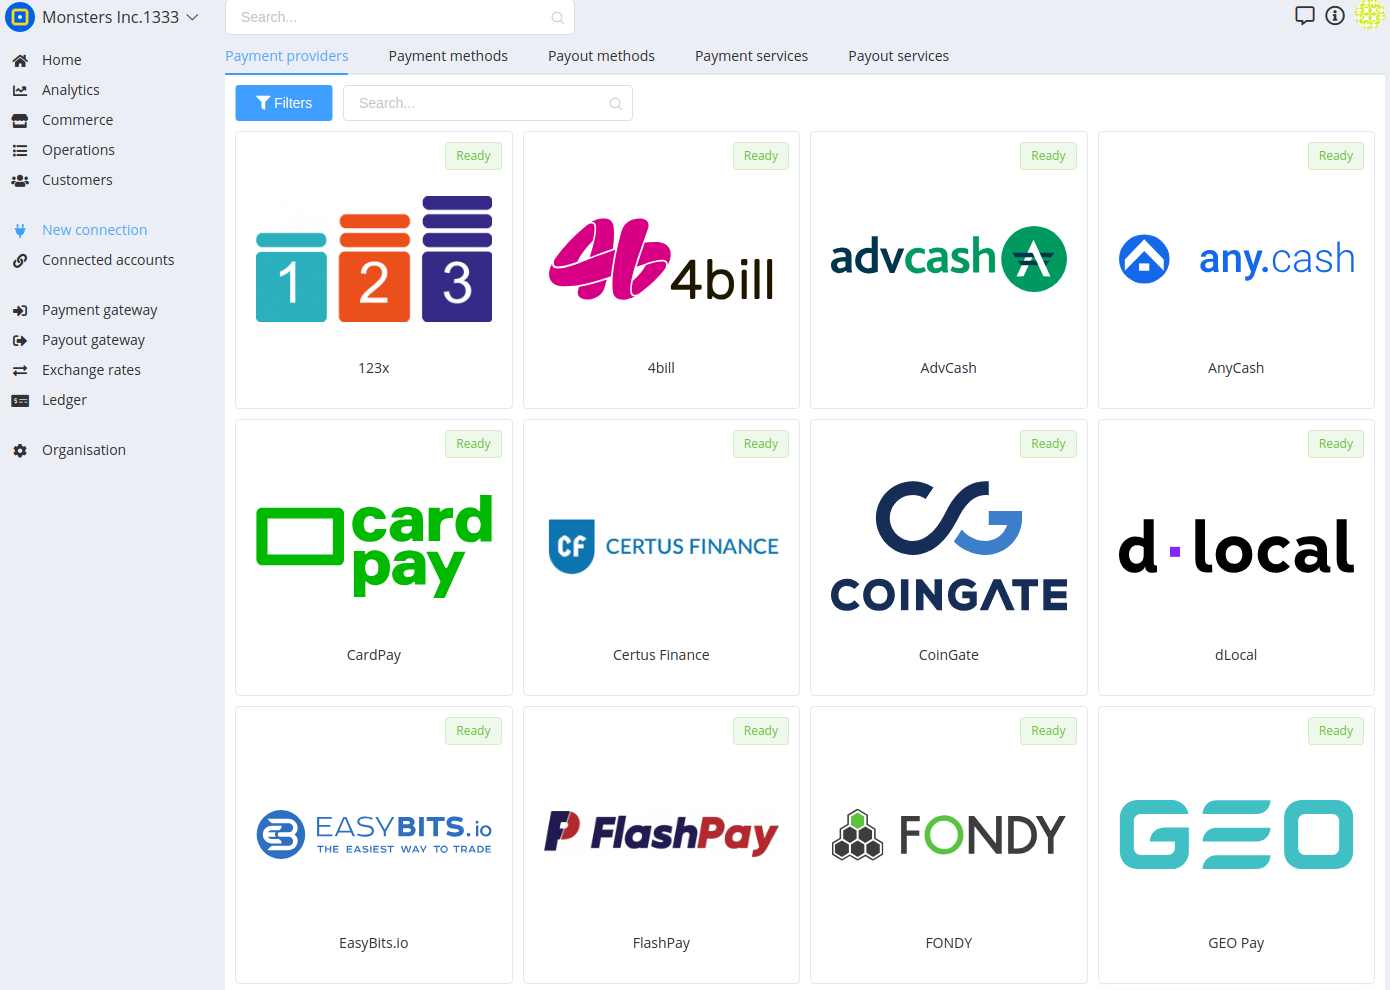
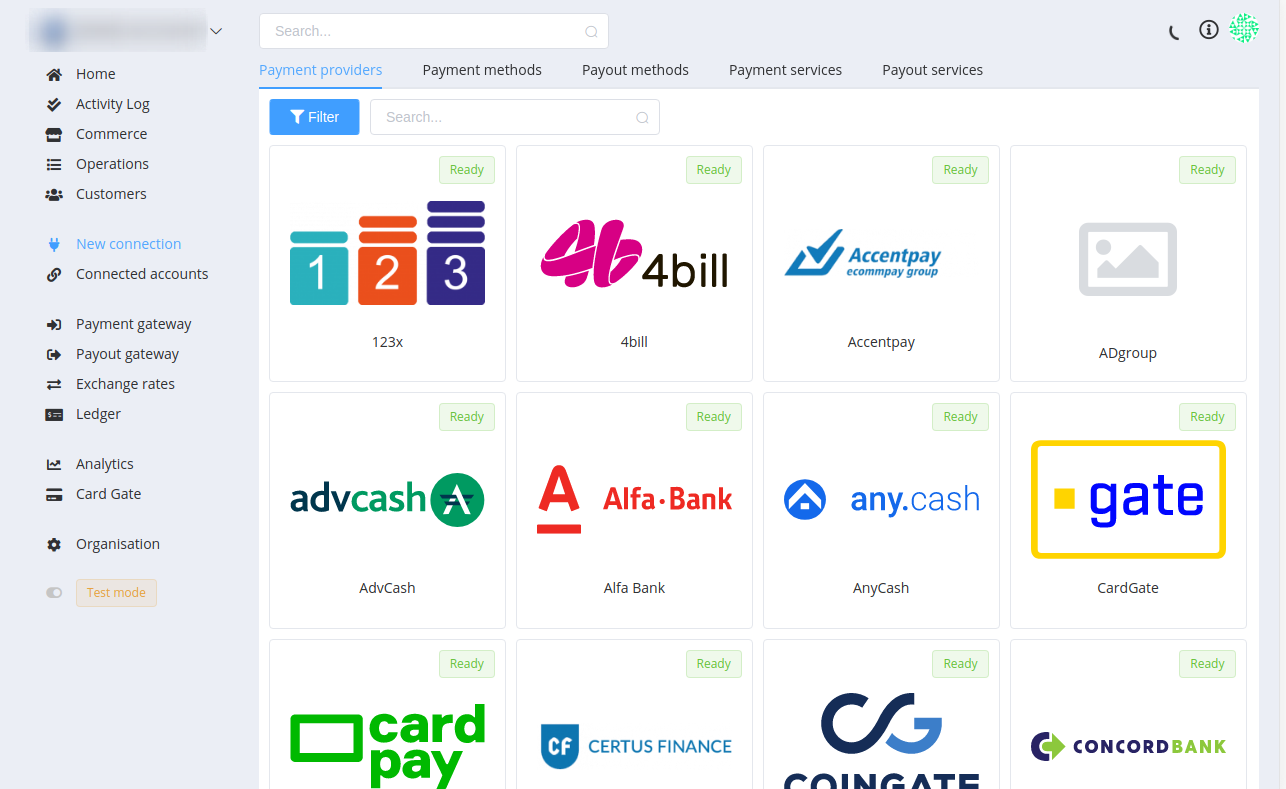
add covers, translate 1st payments & setting up account

diff --git a/docs/getting-started/setting-up-account.md b/docs/getting-started/setting-up-account.md
@@ -1,74 +1,94 @@
 
-## Введение
+# Set up your account
 
-Перед тем как начать взаимодействовать с PayCore.io вам необходимо провести базовую конфигурацию и подключить платежные провайдеры.
+## Intro
 
-Но для начала, вам необходимо зарегистрироваться и вам автоматически будет создан новый аккаунт организации.
+Before you start interacting with [PayCore.io](https://paycore.io), you need to carry out a basic configuration and connect payment providers.
 
+To get an account for the organisation just follow the steps below.
 
-## Регистрация
+## Registration
 
-![](images/signup.png "PayCore.io > Setting up account > PayCore io.png")
+Visit the [registration page](https://dashboard.paycore.io/register).
 
-Для регистрации в системе достаточно ввести email и предпочитаемый пароль и вы автоматически попадете в новый аккаунт организации.
+![](images/register.png "PayCore.io > Setting up account")
 
-После чего вы можете пригласить ваших коллег в эту организацию с различными ролями и доступами.
+Enter an **email** address and **password**. A new account of the user and the linked organisation's account will be created automatically. 
 
-Детальнее об аккаунте организации и его настройках вы можете ознакомится в разделе "Account".
+!!! note
+    One user account can be a member of any number of organisations.
 
+Click on the avatar in the top right corner and set up user profile and preferences for working with the platform. 
 
-## Подключение платежных провадеров
+![](images/user-profile.png)
 
-![](images/connectors.png "PayCore.io > Setting up account > Payment providers (8).png")
+Manage organisation settings in the Organisation section.
 
-После успешной регистрации для полноценной работы системы вам необходимо подключить платежные провайдеры в которых вы имеете мерчант-аккаунты.
+![](images/organization-profile.png)
 
-Если платежного провайдера нет в списке доступных или коннектор не реализован, вы всегда можете обратиться к нам за помощью и он будет добавлен в максимально короткий срок.
+The first connected contact for the organisation is an **Owner** who serves as default primary contact and has all user permissions. 
 
-Со списком всех реализованных подключений вы можете ознакомится в разделе "Connectors" ([https://docs.paycore.io/connectors/](https://docs.paycore.io/connectors/)).
+The next step after creating your account is to invite your team members to your organisation. A **Member** can access all **Commerce Accounts** within an **Organisation**.
+ 
+Also, if you're an Account Owner, later you can transfer account ownership to any other user who has access to the account.
 
-Для подключение платежного провайдера выполните следующие действия:
+For more information, you can read the section [‘Account’](https://dashboard.paycore.io/organization/settings/access-roles).
 
--   Откройте каталог подключений платежных провайдеров.
--   Выберите необходимый провайдер и нажмите "Подключить".
--   Каждый коннектор имеет уникальные свойства и список необходимых параметров для подключения, с котороыми вы можете ознакомится в его инструкции подлючения.
--   В момент подключения аккаунта, система проверит их валидность, проведет синхронизацию доступных для него платежных маршрутов, маршрутов выплат, балансов и опций.
+## Connecting a payment provider
 
-Для быстрого тестирования системы мы предлагаем подключить тестовое подключение (Test connector) в 2 клика! После подключения, для вас будут доступны тестовые платежные маршруты и маршруты выплат.
+After successful registration, you need to connect your existing merchant accounts (MIDs) whether in the same or different payment providers to [PayCore.io](https://paycore.io). You can connect any number of different merchant accounts to your [PayCore.io account](https://dashboard.paycore.io/commerce/accounts).
 
-Что бы убедится, что аккаунт правильно сконфигурирован, вам необходимо проверить наличие активных платежных маршрутов в каждом из шлюзов соответственно:
+But before that, it is necessary to connect the first provider and create routing schemes for payments and payouts.  
 
--   Для платежного шлюза — [https://dashboard.paycore.io/payment-gateway/payment-routes](https://dashboard-dev.paycore.io/payment-gateway/payment-routes)
--   Для шлюза выплат — [https://dashboard.paycore.io/payment-gateway/payment-routes](https://dashboard-dev.paycore.io/payment-gateway/payment-routes)
+The list of all available integrations can be found in the [Connectors](https://docs.paycore.io/connectors/). 
 
-Внимание! Учитывайте, что для тестового режима отображения данных отображаются только тестовые маршруты.
+To connect a **Payment Provider**, follow these steps:
 
-Детальнее о тестовом режиме вы можете ознакомится в разделе "[Тестирование](http://confluence.paymaxi.com)" ([https://docs.paycore.io/connectors/test/](https://docs.paycore.io/connectors/test/)).
+1. Click on [New Connection](https://dashboard.paycore.io/connect-directory/payment-providers) section to access providers directory.
+2. Select the desired provider and click on its logo. Payment providers, that are available for connection, are marked with `Ready` flag in the top right corner. Contact our [Customer Support](mailto:support@paycore.io) if you don’t find a payment provider in the list of payment providers or integration is not yet implemented. We will do our best to deliver it right for you as soon as possible, generally under 7 business days.
+![](images/connectors.png)
+3. Each connector has its unique properties and account credentials to connect. For more information please follow the steps of the accompanying [connection guide](https://docs.paycore.io/connectors/) for every provider to set up the connection properly. Once you set up everything, you must click **Save** to get online with the payment provider. To quickly test your integration with PayCore.io, you may connect a **Test Connector** in 2 clicks! 
+![](images/test-connector.png)
+4. Immediately afterwards, PayCore.io will automatically check all available payment methods, payment and payout routes in supported currencies for your merchant account in the payment provider or acquirer. Now all is done!
+
+## Creating routing schemes
+
+After connecting to a payment provider, you need to set up **[Payment](https://dashboard.paycore.io/payment-gateway/payment-routes)** and **[Payout](https://dashboard.paycore.io/payment-gateway/payment-routes) Gateways**. 
+
+When you create a **routing scheme**, you need only to name it and all your connected payment methods will be automatically linked and enabled here. You can choose which of them you want to use in that scheme, set up routes and choose a strategy and conditions. Click on the right line to go to the level below ([Routing Scheme] &rarr; [Service] &rarr; [Rule] or [Route]).
+
+![](images/payment-routing-scheme.png)
+
+![](images/scheme.png)
+
+![](images/rules-n-routes.png)
+
+![](images/payment-rule.png)
+
+![](images/payment-routes-eg.png)
+
+**Payout schemes** are created in the same way as **Payment schemes**.
+
+[PayCore.io](https://paycore.io) has a **Test Mode** you should use for testing. It operates separately from live mode, so you can make changes without affecting your live data. You should use the same accounts in test and live modes when testing your integration. It makes testing more consistent across the two modes, and you don't have to maintain as many accounts. 
+
+Whether a transaction was created in the test or live mode is dictated by which API keys. ***Keep in mind*** that in Test Mode only test routes will be available.
 
 ![](images/payout-routes.png "PayCore.io > Setting up account > Payout routes")
 
+## Connecting a commerce account
 
-## Создание коммерческого аккаунта
+After setting up at least one payment scheme and at least one payout scheme, you can create a **Commerce scheme** to link them for commerce accounts. You also can create an [exchange rate scheme](https://dashboard.paycore.io/fx-rates/schemes) beforehand or use the default system scheme instead.
 
-В рамках одной организации может быть множество вебсайтов, проектов, магазинов, витрин, бизнес аккаунтов, точек продаж и т.п.. Для учета всех операций для каждого из них, используется **Коммерческий аккаунт**.
+![](images/commerce-scheme.png)
 
-**Коммерческий аккаунт** — это учетная запись, для которой учитываются все совершенные операции по приему платежей и выплатам в рамках всей вашей организации.
+You can always change the Commerce scheme for a Commerce account if you wish.
 
-Для каждого **Коммерческого аккаута** можно задать индивидуальные бизнес-правила обработки операций и доступные ему платежные сервисы.
+A **Commerce Account** is used by the organisation to account all websites, projects, stores, storefronts, business accounts, points of sale, etc. You can set individual rules for each Commerce Account, processing transactions and payment services available in it.
 
-Конфигурация бизнес правил для **Коммерческого аккаунта** задается в **Коммерческой схеме**.
+![](images/commerce-account.png)
 
-**Коммерческая схема** отвечает за доступные для **Коммерческого аккаунта** базовые валюты, схемы маршрутизации, схемы валютных курсов, индивидуальные комиссии соответственно для платежей и выплат.
+To create a new [Commerce Account](https://dashboard.paycore.io/commerce/accounts), it is enough to simply indicate its name, the Commerce scheme used and the base currencies available for it. If you are a Business plan user, you can additionally enable a Ledger scheme for better understanding and monitoring the flow of funds. 
 
-При подключении первого платежного провайдера автоматически создается **Коммерческая схема** по умолчанию, которая включает в себя все доступные платежные маршруты и маршруты выплат. При желании, вы всегда можете сменить для Коммерческого аккаунта Коммерческую схему.
+Congratulations! Your account is set up and ready to go!
 
-Для создания нового **Коммерческого аккаунта** достаточно просто указать его название, используемую **Коммерческую схему** и доступные для него базовые валюты.
-
-Создайте ваш первый Коммерческий аккаунт в [Dashboard](https://dashboard.paycore.io/commerce/accounts) и перейдите к следующей главе, где мы проведем ваш первый платеж и совершим первую выплату!
-
-![](images/commerce-accounts.png "PayCore.io > Setting up account > Commerce accounts")
-
-
-## Поздравляем! Ваш аккаунт настроен и готов к работе!
-
-После успешной конфиругации и подключении платежных провайдеров предлагаем [провести первые операции на прием платежей и выплаты](http://confluence.paymaxi.com).
+When the account is set, we offer to carry out the first operations to [receive payments and payouts](/getting-started/first-payment/).

diff --git a/docs/connectors/perfectmoney/index.md b/docs/connectors/perfectmoney/index.md
@@ -8,18 +8,15 @@ Here You can find  instructions for setting up [ **PerfectMoney** account](https
 
 ## Setup account
 
-
-
-
 ### Step 1: Open Commerce setting
 
 ![Verify](images/perfmoney-verify1.png)
 
 ### Step 2: Verify your business account
 
-    ![Verify](images/perfmoney-verify2.png)
+![Verify](images/perfmoney-verify2.png)
 
-    ![Verify](images/perfmoney-verify3.png)
+![Verify](images/perfmoney-verify3.png)
 
 !!! tip
     You just need to verify **all documents** and **additional info**, which is necessary for successful setting up an account!

diff --git a/docs/getting-started/first-payment.md b/docs/getting-started/first-payment.md
@@ -5,7 +5,7 @@
 
 To execute payments and payouts, your account should be previously configured and have connected payment providers with active payment routes.
 
-If you haven't set up your account yet, we recommend going to the ['Setting up'](docs/getting-started/setting-up-account.md) article at first.
+If you haven't set up your account yet, we recommend going to the ['Setting up'](/getting-started/setting-up-account/) article at first.
 
 ## Receiving your first payment
 

diff --git a/docs/connectors/forwardbank/index.md b/docs/connectors/forwardbank/index.md
@@ -1,0 +1,6 @@
+<img src="https://static.openfintech.io/payment_providers/forwardbank/logo.svg?w=400" width="400px" >
+
+# Forward Bank Connector
+
+!!! question "Looking for help connecting your Forward Bank account?"
+    [Please contact our support team!](mailto:support@paycore.io)

diff --git a/docs/connectors/concord/index.md b/docs/connectors/concord/index.md
@@ -1,0 +1,6 @@
+<img src="https://static.openfintech.io/payment_providers/concord/logo.svg?w=400" width="400px" >
+
+# Concord Bank Connector
+
+!!! question "Looking for help connecting your Concord Bank account?"
+    [Please contact our support team!](mailto:support@paycore.io)

diff --git a/docs/connectors/accentpay/index.md b/docs/connectors/accentpay/index.md
@@ -1,0 +1,6 @@
+<img src="https://static.openfintech.io/payment_providers/accentpay/logo.png?w=400" width="400px" >
+
+# Accentpay Connector
+
+!!! question "Looking for help connecting your Accentpay account?"
+    [Please contact our support team!](mailto:support@paycore.io)

diff --git a/docs/connectors/connectum/index.md b/docs/connectors/connectum/index.md
@@ -1,0 +1,6 @@
+<img src="https://static.openfintech.io/payment_providers/connectum/logo.svg?w=400" width="400px" >
+
+# Connectum Connector
+
+!!! question "Looking for help connecting your Connectum account?"
+    [Please contact our support team!](mailto:support@paycore.io)

diff --git a/docs/connectors/alfabank/index.md b/docs/connectors/alfabank/index.md
@@ -1,0 +1,6 @@
+<img src="https://static.openfintech.io/payment_providers/alfabank/logo.svg?w=400" width="400px" >
+
+# Alfa Bank Connector
+
+!!! question "Looking for help connecting your Alfa Bank account?"
+    [Please contact our support team!](mailto:support@paycore.io)

diff --git a/docs/connectors/cardgate/index.md b/docs/connectors/cardgate/index.md
@@ -1,0 +1,6 @@
+<img src="https://static.openfintech.io/payment_providers/cardgate/logo.svg?w=400" width="400px" >
+
+# CardGate Connector
+
+!!! question "Looking for help connecting your CardGate account?"
+    [Please contact our support team!](mailto:support@paycore.io)

diff --git a/docs/connectors/adgroup/index.md b/docs/connectors/adgroup/index.md
@@ -1,0 +1,6 @@
+<img src="https://static.openfintech.io/payment_providers/adgroup/logo.svg?w=400" width="400px" >
+
+# ADgroup Connector
+
+!!! question "Looking for help connecting your ADgroup account?"
+    [Please contact our support team!](mailto:support@paycore.io)

diff --git a/docs/connectors/procard/index.md b/docs/connectors/procard/index.md
@@ -1,0 +1,6 @@
+<img src="https://static.openfintech.io/payment_providers/procard/logo.png?w=400" width="400px" >
+
+# Procard Connector
+
+!!! question "Looking for help connecting your Procard account?"
+    [Please contact our support team!](mailto:support@paycore.io)

diff --git a/docs/connectors/tkbpay/index.md b/docs/connectors/tkbpay/index.md
@@ -1,0 +1,6 @@
+<img src="https://static.openfintech.io/payment_providers/tkbpay/logo.svg?w=400" width="400px" >
+
+# TKB pay Connector
+
+!!! question "Looking for help connecting your TKB pay account?"
+    [Please contact our support team!](mailto:support@paycore.io)
